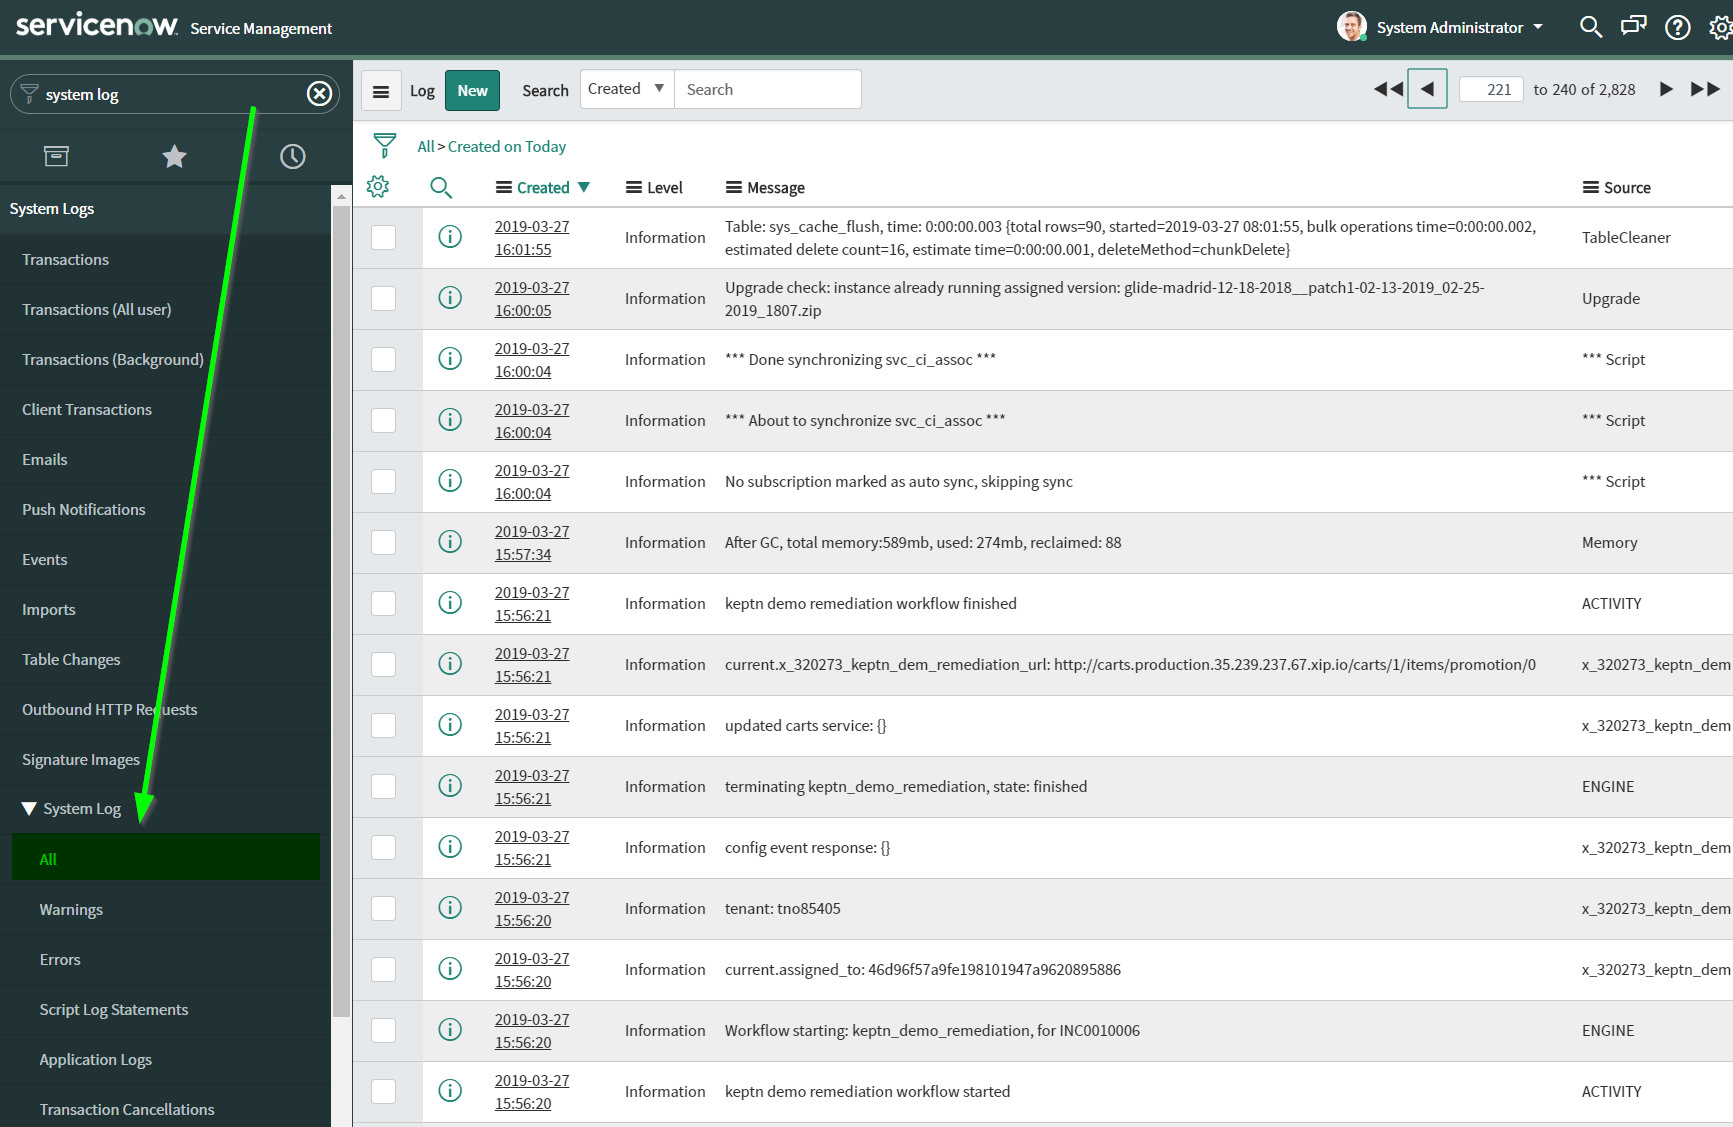
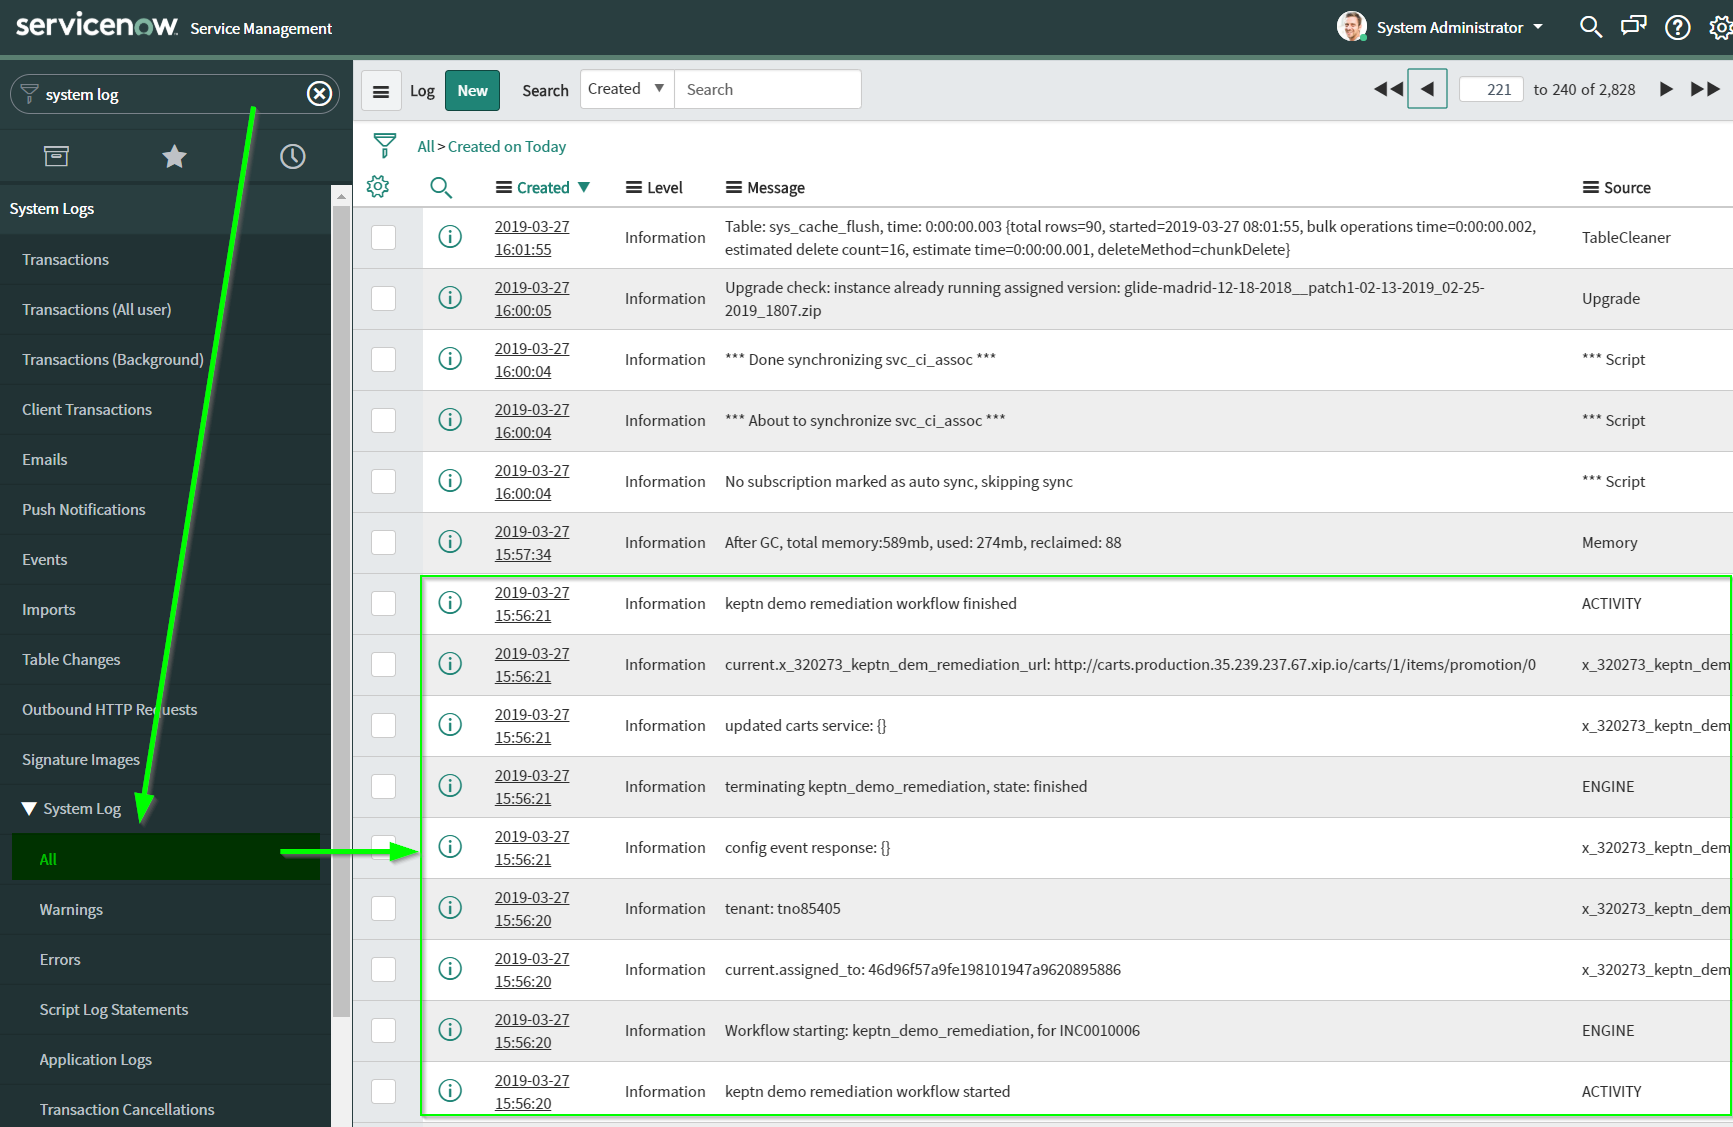
add additional info

Changed region(s): [[0.1558, 0.4969, 1.0, 0.9938]]

diff --git a/content/docs/0.2.0/usecases/runbook-automation-and-self-healing/index.md b/content/docs/0.2.0/usecases/runbook-automation-and-self-healing/index.md
@@ -259,7 +259,7 @@ Once the problem is resolved, Dynatrace sends out another notification which aga
 
 - Please note that Dynatrace has its feature called **Frequent Issue Detection** enabled by default. This means, that if Dynatrace detects the same problem multiple times, it will be classified as a frequent issue and problem notifications won't be sent out to third party tools. Therefore, the use case might not be able to be run a couple of times in a row. To disable the feature for your tenant please reach out to the Dynatrace support team.
 
-- In ServiceNow you can take a look at the **System Log -> All** to verify which actions have been executed. 
+- In ServiceNow you can take a look at the **System Log -> All** to verify which actions have been executed. You should be able to see some logs on the execution of the keptn demo workflow as shown in the screenshot:
     {{< popup_image
         link="./assets/service-now-systemlog.png"
         caption="ServiceNow System Log">}}
